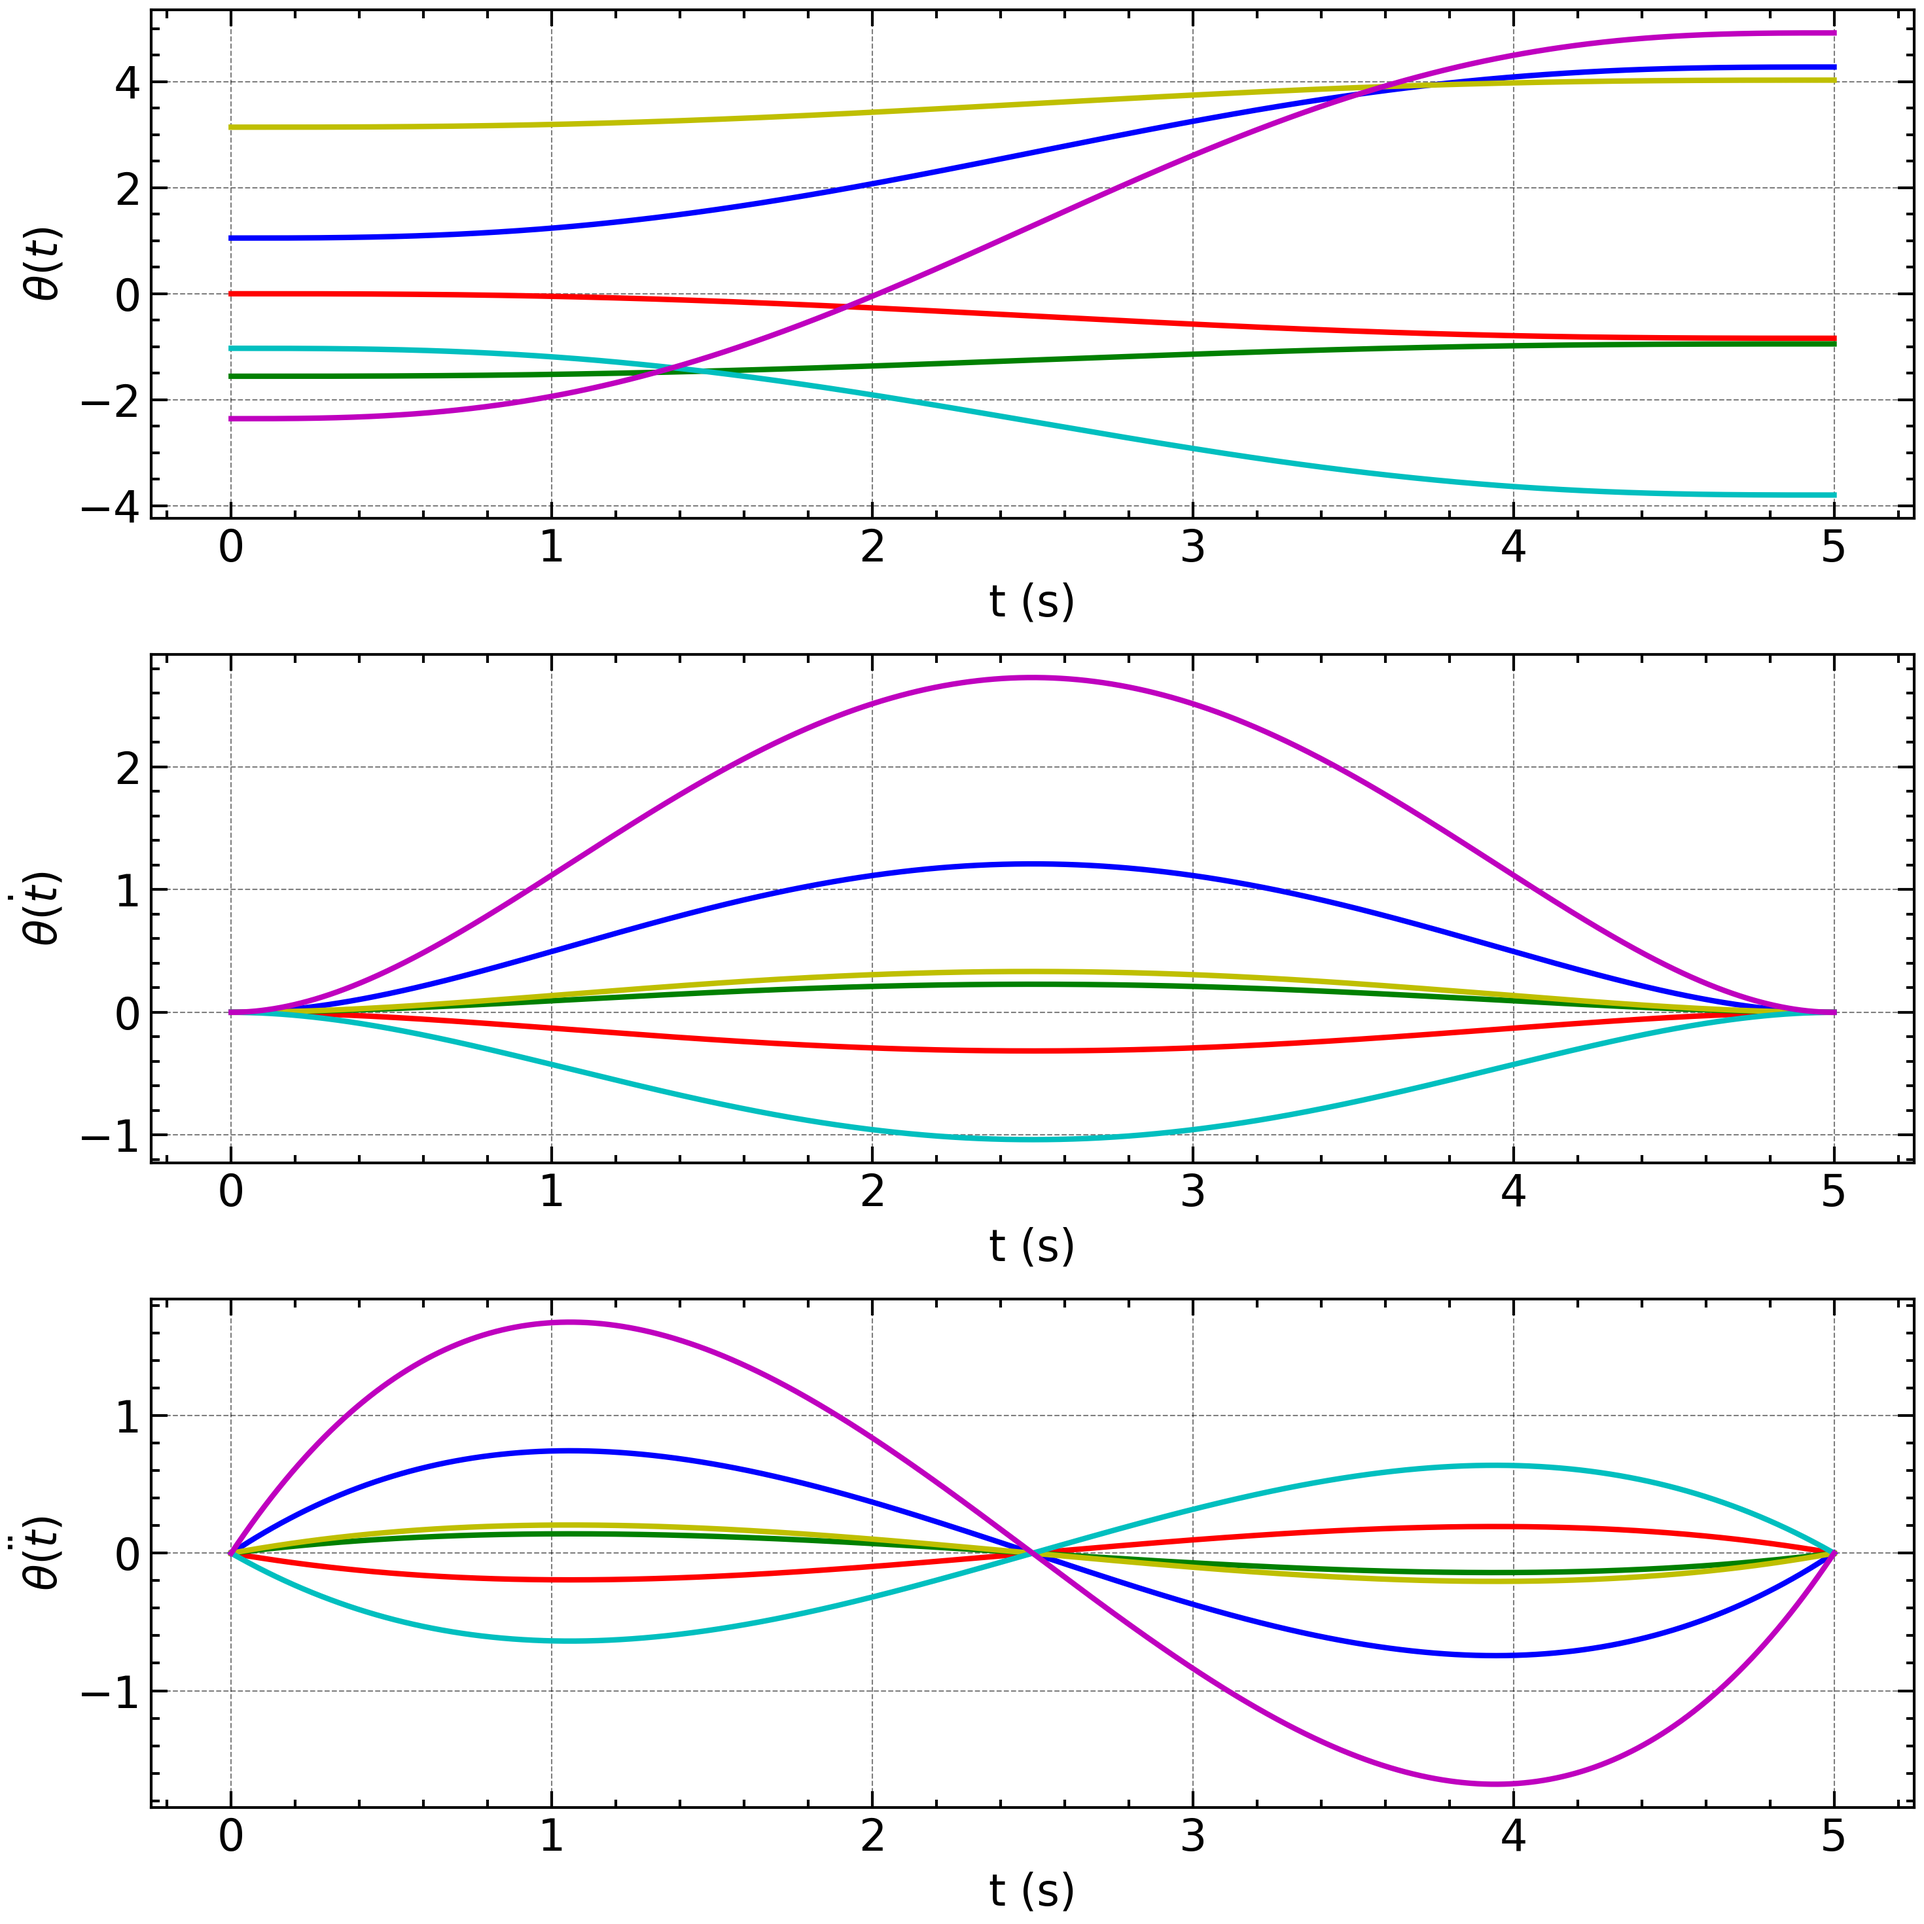
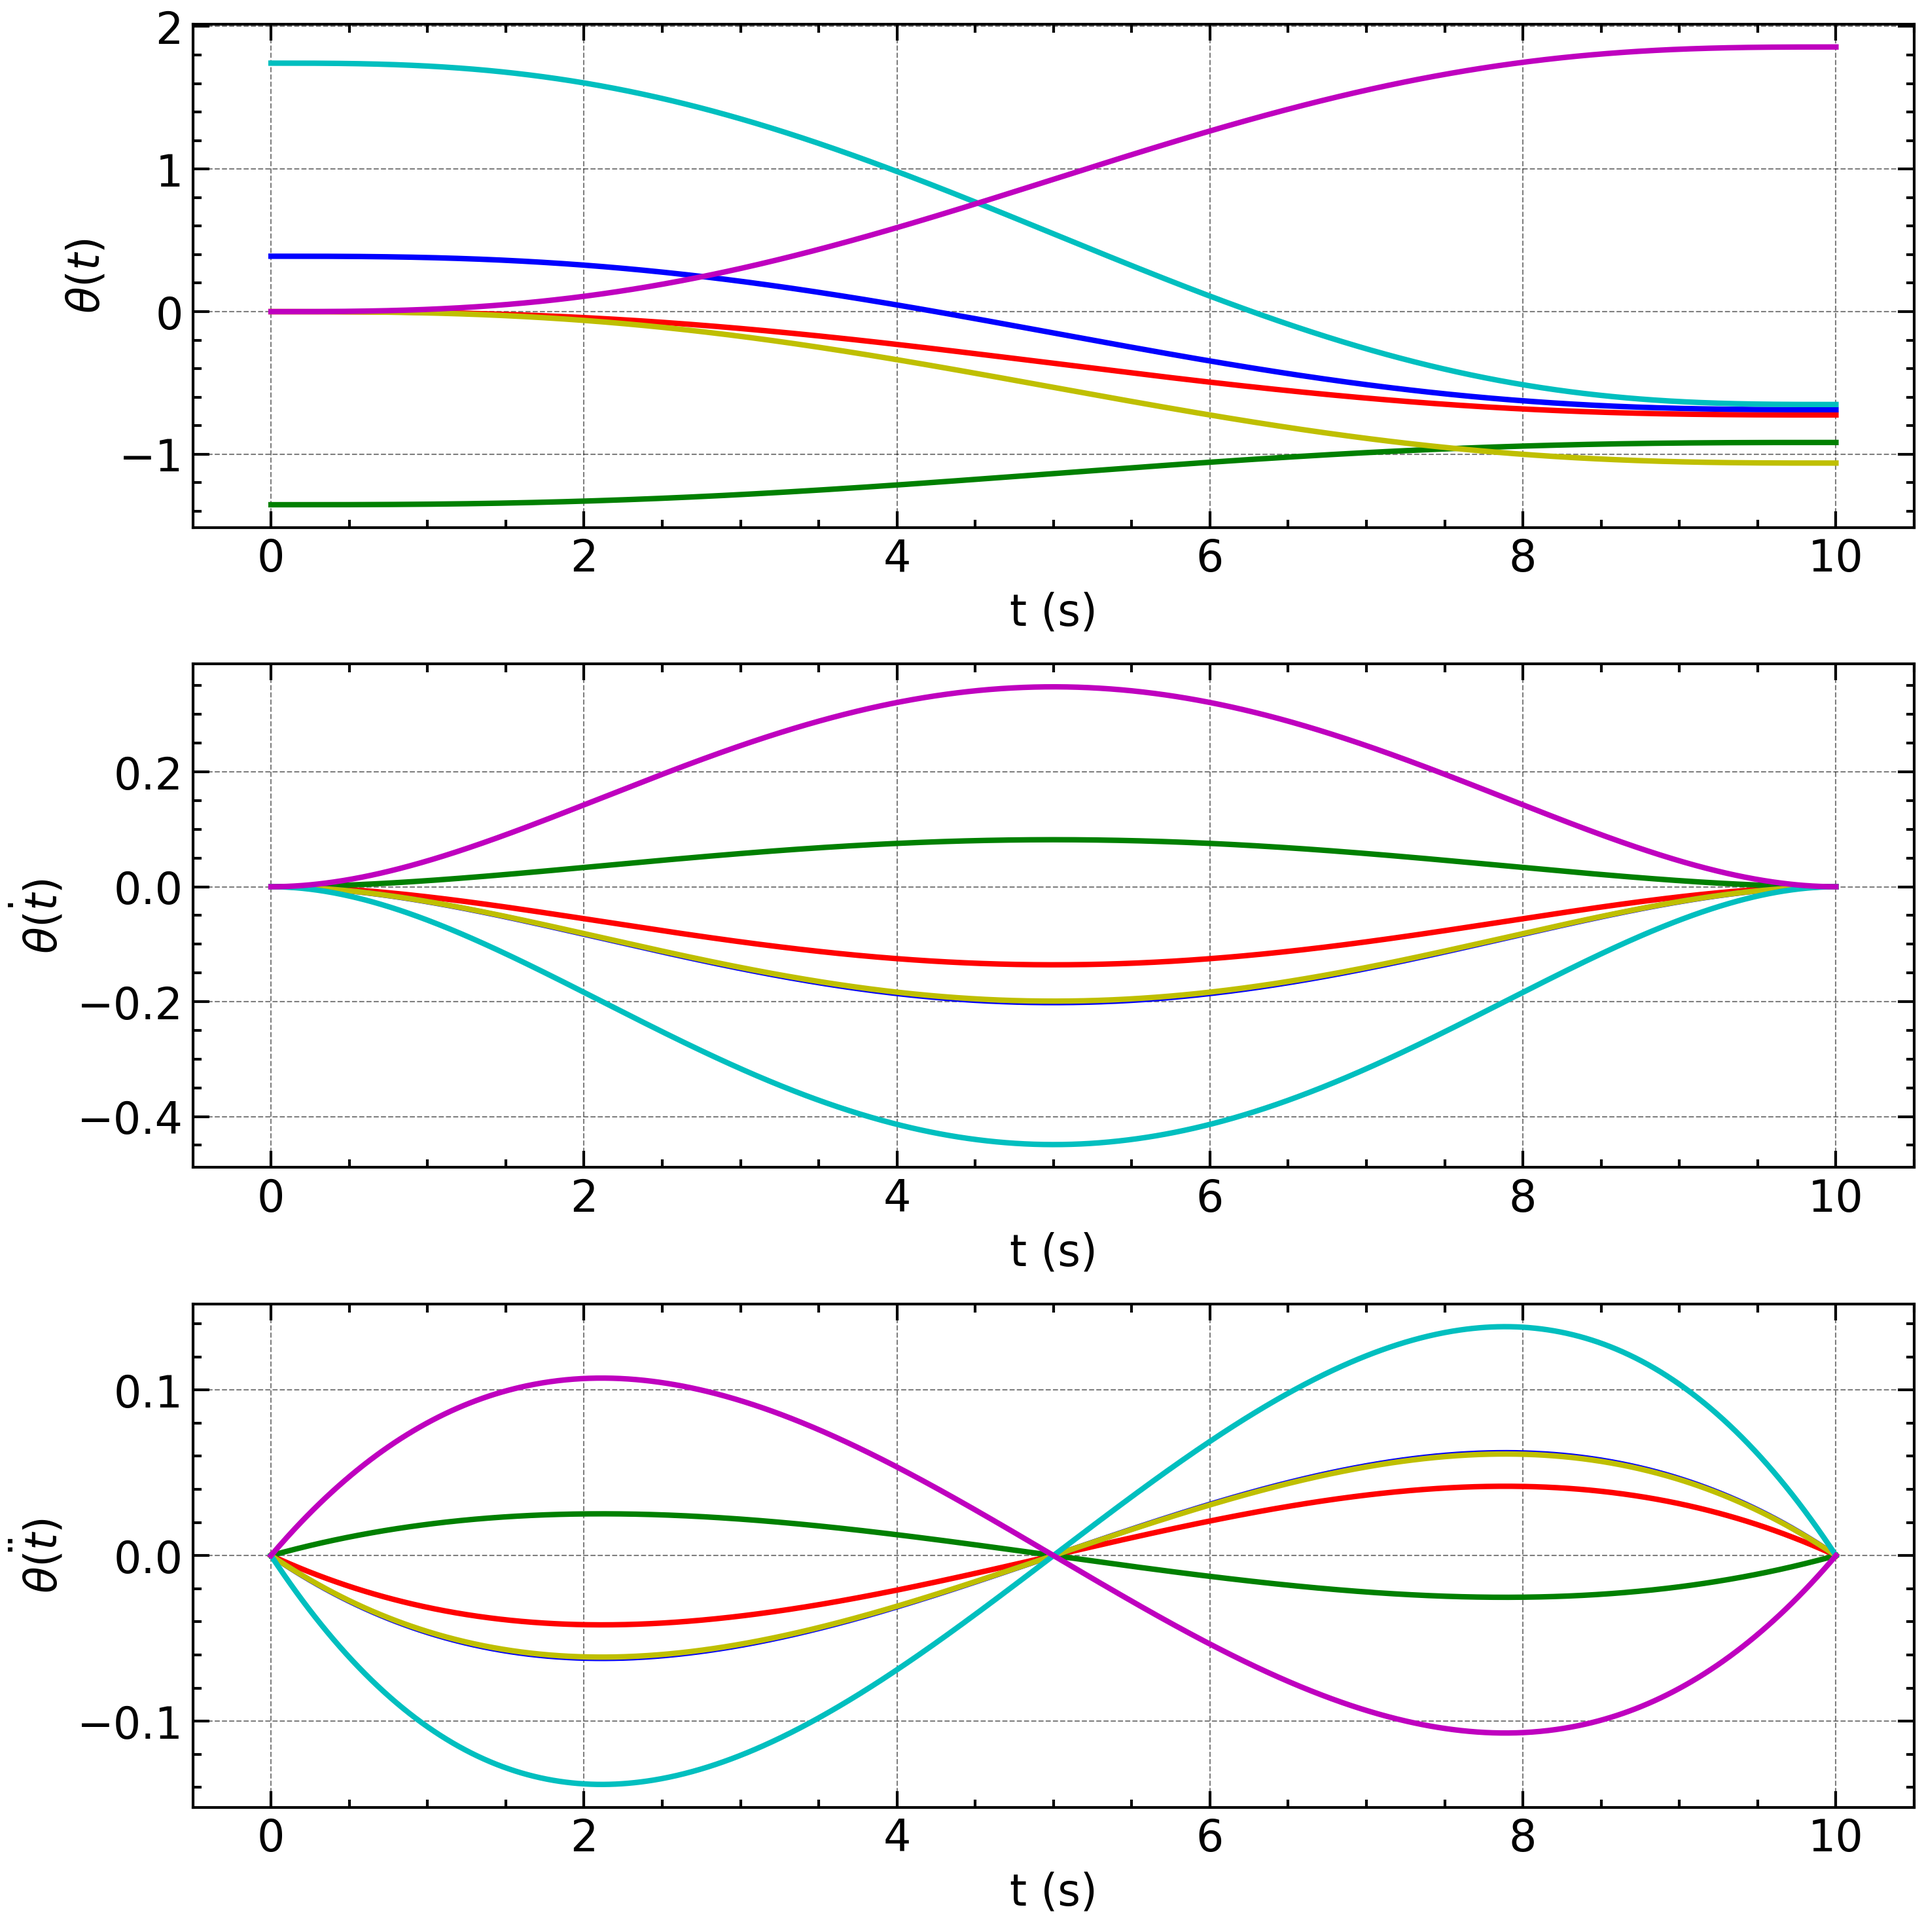
rdk

diff --git a/test_trajectory_generation.py b/test_trajectory_generation.py
@@ -1,13 +1,15 @@
 #  Copyright (c) Miguel L. Rodrigues 2022.
 
-import time
-
 import matplotlib.pyplot as plt
 import numpy as np
 
 from lib.inverse_kinematics import ik
 from lib.trajectory import Trajectory
 from robots.comau import comau_fk as fk
+from robodk.robolink import *
+
+# RDK = Robolink()
+# robot = RDK.Item('Comau Smart SiX 6-1.4')
 
 np.set_printoptions(suppress=True, precision=6)
 
@@ -20,7 +22,7 @@ plt.style.use([
 lmbd_start = .1
 lmbd_end = .1
 
-start_transformation = np.array([892.07, .0, 1170, 0, -np.pi / 6, np.pi / 4])
+start_transformation = np.array([892.07, .0, 1170, 0, 0, 0])
 desired_transformation = np.array([585.95, -585.95, 250.97, -np.pi / 4, 0, 0])
 
 start_time = time.time()
@@ -43,8 +45,8 @@ print(' ')
 print('Time elapsed:', end_time - start_time)
 print(' ')
 
-print(f'Start angles: {np.rad2deg(start_angles)}')
-print(f'End angles: {np.rad2deg(end_angles)}')
+print(f'Start angles: {np.rad2deg(fk.get_angles_to_real_robot(start_angles))}')
+print(f'End angles: {np.rad2deg(fk.get_angles_to_real_robot(end_angles))}')
 
 print(' ')
 print('Start transformation:\n', fk.compute_ee_transformation_matrix(start_angles))
@@ -52,13 +54,13 @@ print(' ')
 print('End transformation:\n', fk.compute_ee_transformation_matrix(end_angles))
 print(' ')
 
-start_velocity = np.zeros(6)
-start_acceleration = np.zeros(6)
+start_velocity = np.array([.0, .0, .0, .0, .0, .0])
+start_acceleration = np.array([.0, .0, .0, .0, .0, .0])
 
 end_velocity = np.array([.0, .0, .0, .0, .0, .0])
 end_acceleration = np.array([.0, .0, .0, .0, .0, .0])
 
-d_t = 5
+d_t = 10
 
 trajectories = np.empty(6, dtype=Trajectory)
 for i in range(len(start_angles)):
@@ -69,7 +71,7 @@ for i in range(len(start_angles)):
 start_time = 0
 end_time = d_t
 
-time_step = 1e-3
+time_step = 1e-2
 iterations = int((end_time - start_time) / time_step)
 time_values = np.linspace(start_time, end_time, iterations)
 
@@ -96,6 +98,12 @@ for t in range(len(trajectories)):
   trajectories_thetas[t, :] = t_thetas
   trajectories_velocities[t, :] = t_velocities
   trajectories_accelerations[t, :] = t_accelerations
+
+# for i in range(len(time_values)):
+#   ths = np.rad2deg(fk.get_angles_to_real_robot(trajectories_thetas[:, i]))
+#
+#   robot.setJoints(ths.tolist())
+#   print(time_values[i])
 
 fig, axs = plt.subplots(3, 1, figsize=(10, 10), tight_layout=True)
 
